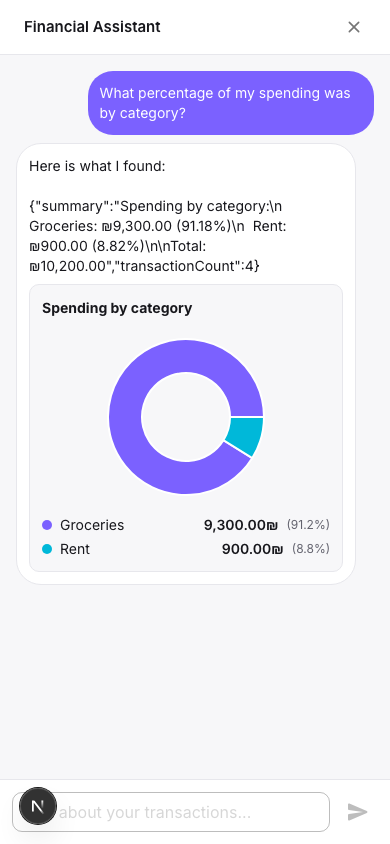
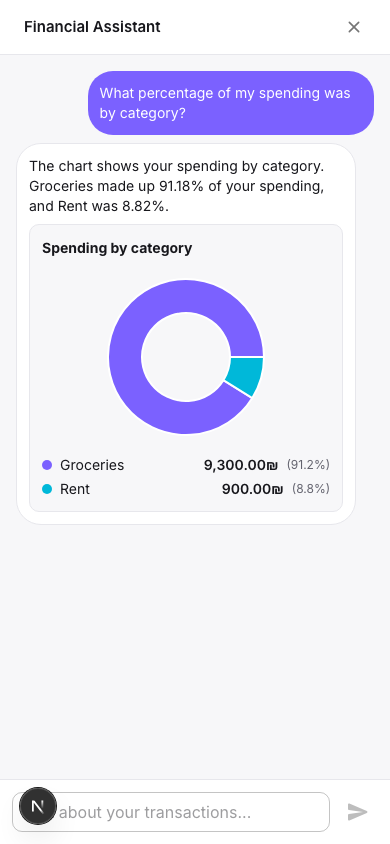
fix(assistant): stop the reply pointing at the wrong side of its card
Verified against a real model rather than the e2e mock, which cannot exercise
an instruction because it only echoes tool output. The model behaved as
intended — two sentences, no JSON, no retyped rows — but referred to "the table
above" and "the card above" while the cards actually render below the text.

Instructions now name a card as "the table" or "the chart" and never by
position, since where it sits is a layout detail that changes with width.

The screenshots are recaptured from that real-model run, and the spec waits for
the prose before shooting: the card lands before any text, because the tool
result exists before the model has written about it, so shooting on the card
alone caught a half-finished reply.

Claude-Session: https://claude.ai/code/session_01YHHwGBc3asxhZKutUCSd9v

diff --git a/e2e/chat-views.spec.ts b/e2e/chat-views.spec.ts
@@ -9,11 +9,13 @@ import { signIn } from './helpers';
  * pipe-separated text it used to be. Shot at phone width because that is where
  * the old rendering was worst.
  *
- * Read the prose in those screenshots with the mock in mind: it echoes each
- * tool result verbatim, which is what lets the API harness prove figures come
- * from TypeScript rather than the model. A real model follows the "the user
- * already sees the cards — summarise, do not list" instruction instead, so the
- * cards are the part of the screenshot that represents the product.
+ * The assertions hold against either model, because they check content that
+ * comes from the structured view rather than from anything the model wrote.
+ *
+ * The committed screenshots were captured against a real model. Re-running
+ * with the e2e mock overwrites them with far uglier prose — the mock echoes
+ * each tool result verbatim, which is what lets the API harness prove figures
+ * come from TypeScript. That echo is a harness artefact, not the product.
  */
 
 const TOKEN = process.env.E2E_AUTH_TOKEN || '';
@@ -31,6 +33,29 @@ async function ask(page: import('@playwright/test').Page, question: string) {
   const input = page.getByPlaceholder('Ask about your transactions...');
   await input.fill(question);
   await input.press('Enter');
+}
+
+/**
+ * Waits for the reply's prose as well as its card.
+ *
+ * The card lands first — the tool result exists before the model has written
+ * anything about it — so screenshotting as soon as the card appears captures a
+ * reply that is still mid-flight.
+ */
+async function waitForProse(reply: import('@playwright/test').Locator) {
+  await expect
+    .poll(
+      async () =>
+        (
+          (await reply
+            .last()
+            .locator('[data-testid="chat-message-text"]')
+            .textContent()
+            .catch(() => '')) || ''
+        ).length,
+      { timeout: 30_000 },
+    )
+    .toBeGreaterThan(20);
 }
 
 test.describe('assistant renders structured results', () => {
@@ -57,6 +82,8 @@ test.describe('assistant renders structured results', () => {
     // The old failure mode: the model retyping rows as "date | desc | amount".
     await expect(reply.last()).not.toContainText('|');
 
+    await waitForProse(reply);
+
     await page.screenshot({
       path: 'docs/proof-of-work/chat-transaction-list-mobile.png',
       fullPage: false,
@@ -80,6 +107,8 @@ test.describe('assistant renders structured results', () => {
       reply.last().locator('path.recharts-sector').first(),
     ).toBeVisible();
     await expect(reply.last().locator('path.recharts-sector')).toHaveCount(2);
+
+    await waitForProse(reply);
 
     await page.screenshot({
       path: 'docs/proof-of-work/chat-category-breakdown-mobile.png',

diff --git a/src/server/services/assistant/financialAssistant.ts b/src/server/services/assistant/financialAssistant.ts
@@ -50,6 +50,10 @@ and repeating it gives the user the same thing twice. Refer to what is on
 screen instead: say what it shows, call out the one or two figures that answer
 the question, and add anything notable about the pattern.
 
+Refer to a card as "the table" or "the chart", never by position. It is not
+"above" or "below" your text — where it sits is a layout detail that changes
+with screen size, and naming the wrong side is worse than not saying it.
+
 Headline figures — a total, a difference, a percentage change — are still worth
 stating in the sentence. Individual rows are not.
 

diff --git a/src/components/chat/Chat.tsx b/src/components/chat/Chat.tsx
@@ -168,6 +168,7 @@ const Chat: React.FC = () => {
                   {msg.text.length > 0 && (
                     <Typography
                       variant="body2"
+                      data-testid="chat-message-text"
                       // Hebrew replies right-align and English stay left,
                       // decided per message rather than app-wide.
                       dir="auto"
